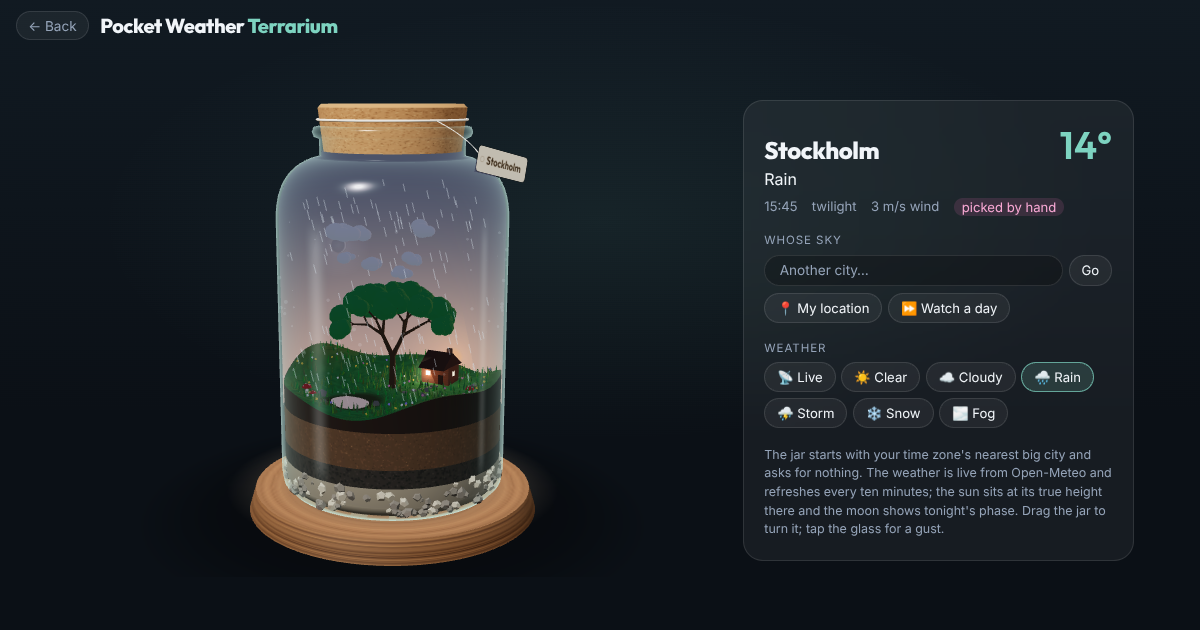
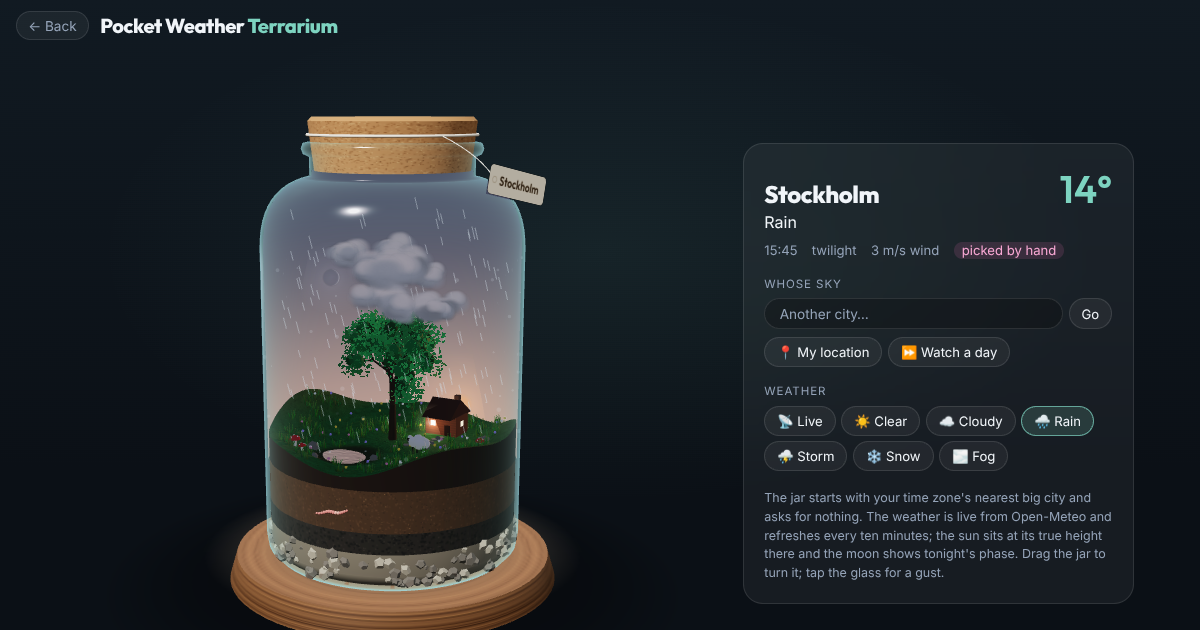
perf(terrarium): a lighter jar on phones; previews reshot
Coarse pointers and small machines get a 1024 shadow map, 1,100 grass
blades instead of 1,800, the pond reflection refreshed every 15th frame
and a pixel ratio capped at 1.5. OG image and card previews reshot with
the new look; README names visitors.js and how to call the saucer.

Claude-Session: https://claude.ai/code/session_01LRDtnpedwZfG5fdLfLXpAr

diff --git a/terrarium/js/scene.js b/terrarium/js/scene.js
@@ -190,6 +190,10 @@ void main() {
 }`;
 
 export function createJar(canvas, { onTap, reduceMotion }) {
+    // Phones and small machines get the same jar with less work per frame:
+    // a coarser shadow map, fewer grass blades, a pond reflection refreshed
+    // less often, and a lower pixel ratio.
+    const lite = window.matchMedia('(pointer: coarse)').matches || (navigator.hardwareConcurrency || 8) <= 4;
     const renderer = new THREE.WebGLRenderer({ canvas, antialias: true, alpha: true });
     renderer.setClearColor(0x000000, 0);
     renderer.outputEncoding = THREE.sRGBEncoding;
@@ -332,7 +336,7 @@ export function createJar(canvas, { onTap, reduceMotion }) {
     const flashLight = new THREE.AmbientLight(0xdde6ff, 0);
     const sunLight = new THREE.DirectionalLight(0xffffff, 1);
     sunLight.castShadow = true;
-    sunLight.shadow.mapSize.set(2048, 2048);
+    sunLight.shadow.mapSize.setScalar(lite ? 1024 : 2048);
     Object.assign(sunLight.shadow.camera, { left: -1.3, right: 1.3, top: 1.3, bottom: -1.3, near: 0.1, far: 7 });
     sunLight.shadow.bias = -0.0006;
     sunLight.shadow.normalBias = 0.015;
@@ -534,6 +538,7 @@ export function createJar(canvas, { onTap, reduceMotion }) {
             inst.setMatrixAt(k, m);
             inst.setColorAt(k, lin([62 + R2() * 50, 122 + R2() * 56, 46 + R2() * 30]));
         }
+        inst.count = lite ? 1100 : n;
         inst.castShadow = true;
         inst.receiveShadow = true;
         world.add(inst);
@@ -1029,7 +1034,7 @@ export function createJar(canvas, { onTap, reduceMotion }) {
     let fitDist = 10;
     function resize() {
         const w = Math.max(1, canvas.clientWidth), h = Math.max(1, canvas.clientHeight);
-        const dpr = Math.min(2, window.devicePixelRatio || 1);
+        const dpr = Math.min(lite ? 1.5 : 2, window.devicePixelRatio || 1);
         renderer.setPixelRatio(dpr);
         renderer.setSize(w, h, false);
         camera.aspect = w / h;
@@ -1341,7 +1346,7 @@ export function createJar(canvas, { onTap, reduceMotion }) {
 
         // The pond's reflection, refreshed every few frames.
         if (water.visible && pondTick-- <= 0) {
-            pondTick = 5;
+            pondTick = lite ? 14 : 5;
             water.getWorldPosition(pondCam.position);
             pondCam.position.y += 0.03;
             water.visible = false;

diff --git a/README.md b/README.md
@@ -21,7 +21,7 @@ Niklas Billgren's personal site, hosted on GitHub Pages. Static HTML/CSS/JS, no 
 | `golf3d/` | Loft Links — 3D golf, fifteen six-hole courses in four groups (three.js, vendored; own physics), plus `level-editor.html`, a plan-and-preview hole editor that runs on the game's own modules, and `turntable.html`, which draws every hole from eight angles as a contact sheet per course. See [golf3d/README.md](golf3d/README.md). |
 | `viz-poc/` | Data Room — eight interactive 3D visualizations behind one scene switcher: a trade-flow globe, this repo drawn as a city, a particle morph field, a raymarched nebula, boid flocking, a Mandelbulb, four strange attractors and a wave field. Every scene has live controls; the whole interface folds away. See [viz-poc/CLAUDE.md](viz-poc/CLAUDE.md). |
 | `sand/` | Sand Clock — a falling-sand sandbox (canvas, cellular automaton) that opens as a one-minute hourglass: the neck passes one grain a step, and it holds 3,600. Thirteen materials that react (lava sets to stone in water, plants drink and grow), plus volcano and garden scenes. Logic in `js/sim.js`, no DOM; asserted by `tests.html`. |
-| `terrarium/` | Pocket Weather Terrarium — a 3D world in a corked jar (three.js, vendored) whose sky follows the live weather (Open-Meteo, no key) and the sun's true elevation at a chosen place, with the moon's real phase; drag to turn the jar on its stand. Starts from the browser's time zone without asking; city search and "use my location" refine it, and it falls back to a seasonal guess offline. Logic in `js/weather.js`, asserted by `tests.html`; the scene is `js/scene.js`. |
+| `terrarium/` | Pocket Weather Terrarium — a 3D world in a corked jar (three.js, vendored) whose sky follows the live weather (Open-Meteo, no key) and the sun's true elevation at a chosen place, with the moon's real phase; drag to turn the jar on its stand. Starts from the browser's time zone without asking; city search and "use my location" refine it, and it falls back to a seasonal guess offline. Logic in `js/weather.js`, asserted by `tests.html`; the scene is `js/scene.js`, and the sheep, the worm in the soil and the saucer that visits every few minutes (or after five quick taps, or `?ufo=N` seconds in) are `js/visitors.js`. |
 | `elevator/` | Tiny Elevator Tycoon — program a building's lifts (next-stop strategy, zone, idle parking, shared calls) and run a day of seeded arrivals; six levels scored on average wait and people lost to the stairs. Star thresholds are calibrated against every program in `allRules()`, and `tests.html` checks each level is still winnable at three stars. Logic in `js/sim.js`. |
 | `paper-plane/` | Paper Plane Glider — fold with three sliders (wing shape, nose weight, tail flaps) and throw down a long office; a side-on glider model with lift, drag, stall and a pitching moment, so the folds trade off as they do on paper. Longest-throw mode keeps a ghost of the best flight; the daily bin (seeded by UTC date, sometimes with a fan) is the same for everyone. Logic in `js/flight.js`; `tests.html` checks two weeks of bins are all hittable. |
 | `fika/` | Fika Generator — three tarot-style cards for a Swedish fika (pastry, drink, conversation topic), drawn as small SVGs in `js/art.js`. Knows the pastry days (Fettisdagen from Easter, Kanelbullens dag, Lucia…) and seasonal cards, keeps cards across deals, deals a shared "today's fika" and encodes a hand in the URL by card id. Deck and calendar in `js/deck.js`; asserted by `tests.html`. |
